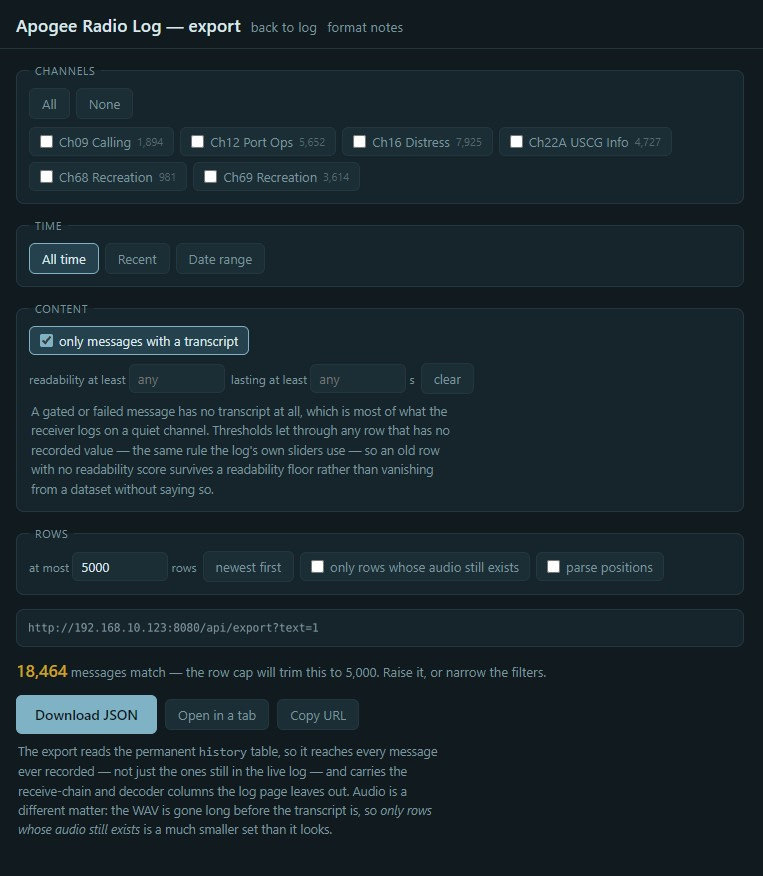
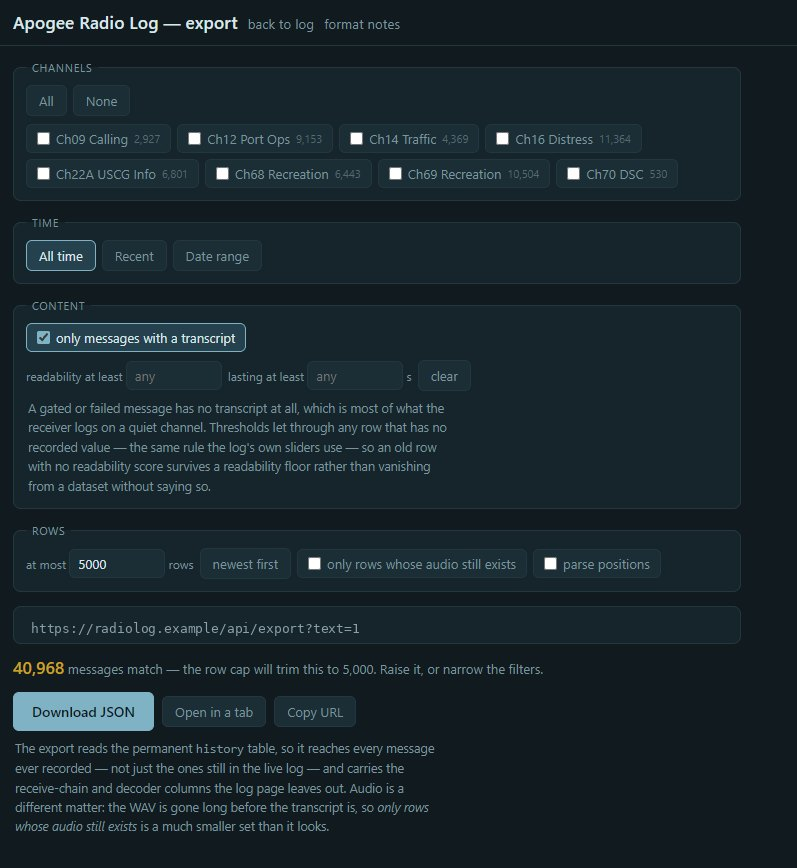
Show the map, the ruler and the AIS page, and refresh the stale shots
The documentation described three subsystems that nothing illustrated.
Adds the map in Vessels mode with a track drawn, the distance tool
mid-measurement, and the AIS page with favourites carrying their own
type names.

Replaces main_screen, search and export, which predated the AIS and
map links in the header, the DSC channel, and the proximity alert.

The home position is rounded in the two shots that show it, as the
previous screenshot did, and the export form's URL bar shows an
example host rather than the one it was captured from.

diff --git a/README.md b/README.md
@@ -5,7 +5,7 @@ listens to six or more channels **at once**, records every transmission as a
 separate audio file, transcribes it, and serves a phone-friendly log you can
 read from the cockpit or anywhere on your network.
 
-![The message log: six channels received simultaneously, newest first](docs/main_screen.jpg)
+![The message log: seven voice channels and DSC received simultaneously, newest first, with a favourite's proximity alert in the header](docs/main_screen.jpg)
 
 ## Why not a scanner?
 
@@ -597,6 +597,8 @@ you want the location columns.
 The radio tells you what was said. AIS tells you who was there. Putting the two
 together is most of what makes this more useful than a scanner.
 
+![The map in Vessels mode: every vessel under way as a heading arrow coloured by speed, one selected with her track drawn, and the side log tailing alongside](docs/map_vessels.jpg)
+
 ### Where the AIS comes from
 
 `ais_ingest.py` reads NMEA 0183 sentences over the network — from a PredictWind
@@ -692,6 +694,8 @@ drawn dashed rather than joined up as legs she did not sail.
 the pointer, in nautical miles, or yards under a tenth of a mile. The pin is a
 position rather than a pixel, so panning and zooming leave it on the water.
 
+![Measuring: a pin dropped offshore and a dashed leg to the cursor, reading 15.2 nm at 188 degrees true](docs/map_measure.jpg)
+
 **The side log** tails live: the newest 100 lines across all channels, with new
 traffic appending as it arrives. A dropdown chooses the source — all channels,
 one channel, only the selected vessel's tagged traffic, or nothing. Clicking a
@@ -702,6 +706,8 @@ herself, often missing and sometimes wrong, and it never says the thing you
 actually want to know. Any pinned vessel's type can be replaced with your own
 words — *Buddy boat*, *Harbour patrol* — from the AIS page. The broadcast type
 is kept and shown on hover.
+
+![The AIS page: favourites pinned at the top with their own type names, then every other target by distance](docs/ais_targets.jpg)
 
 ### Keeping it current without melting the Pi
 
